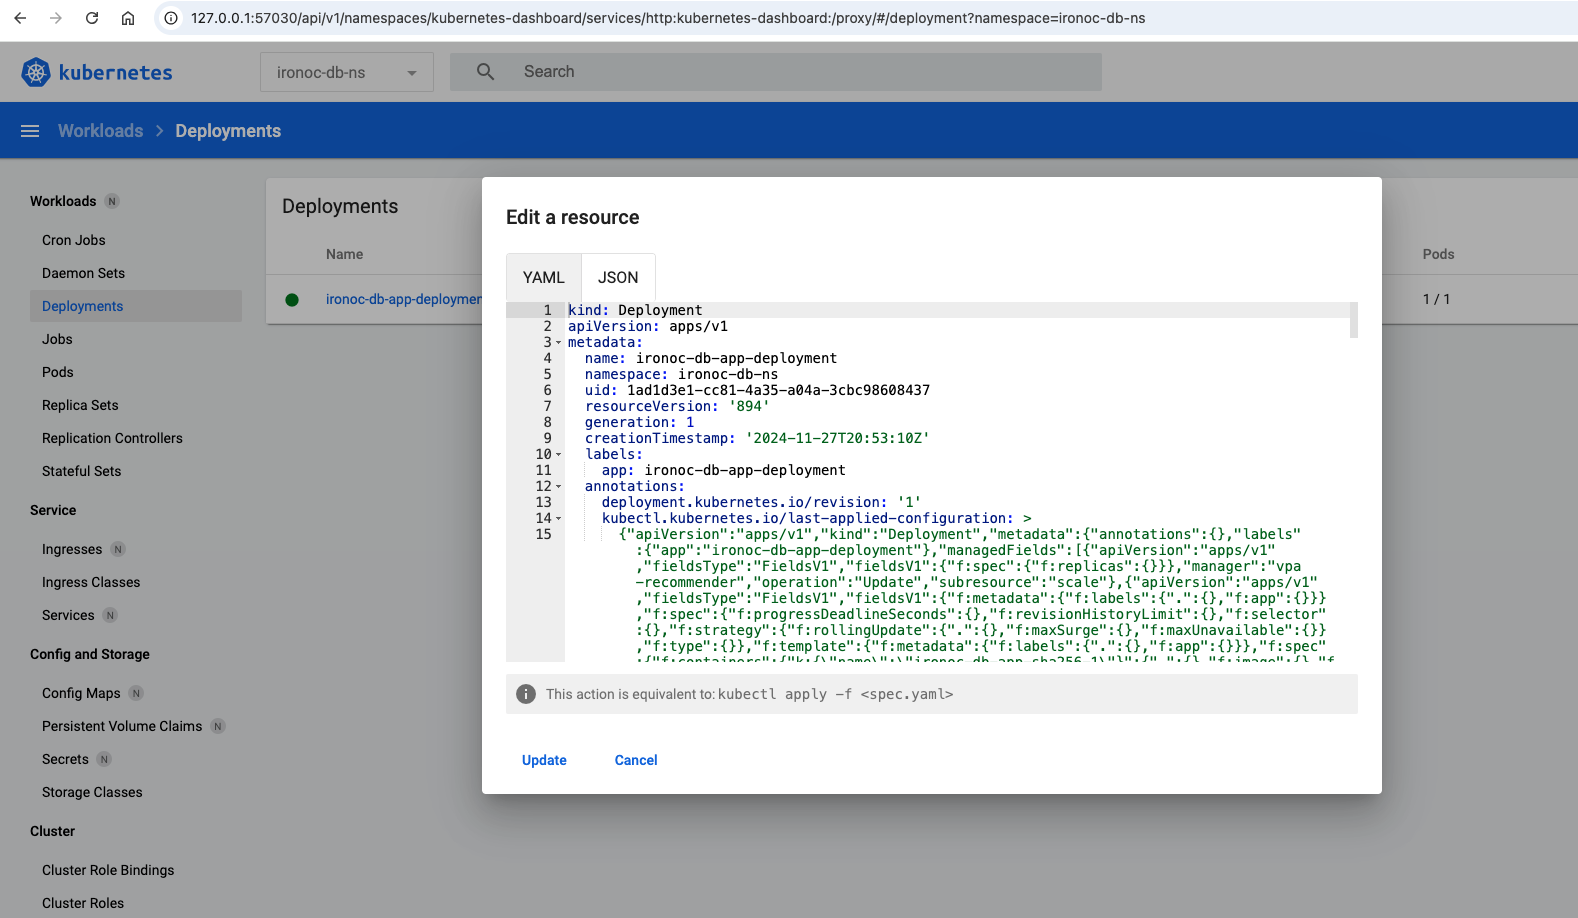
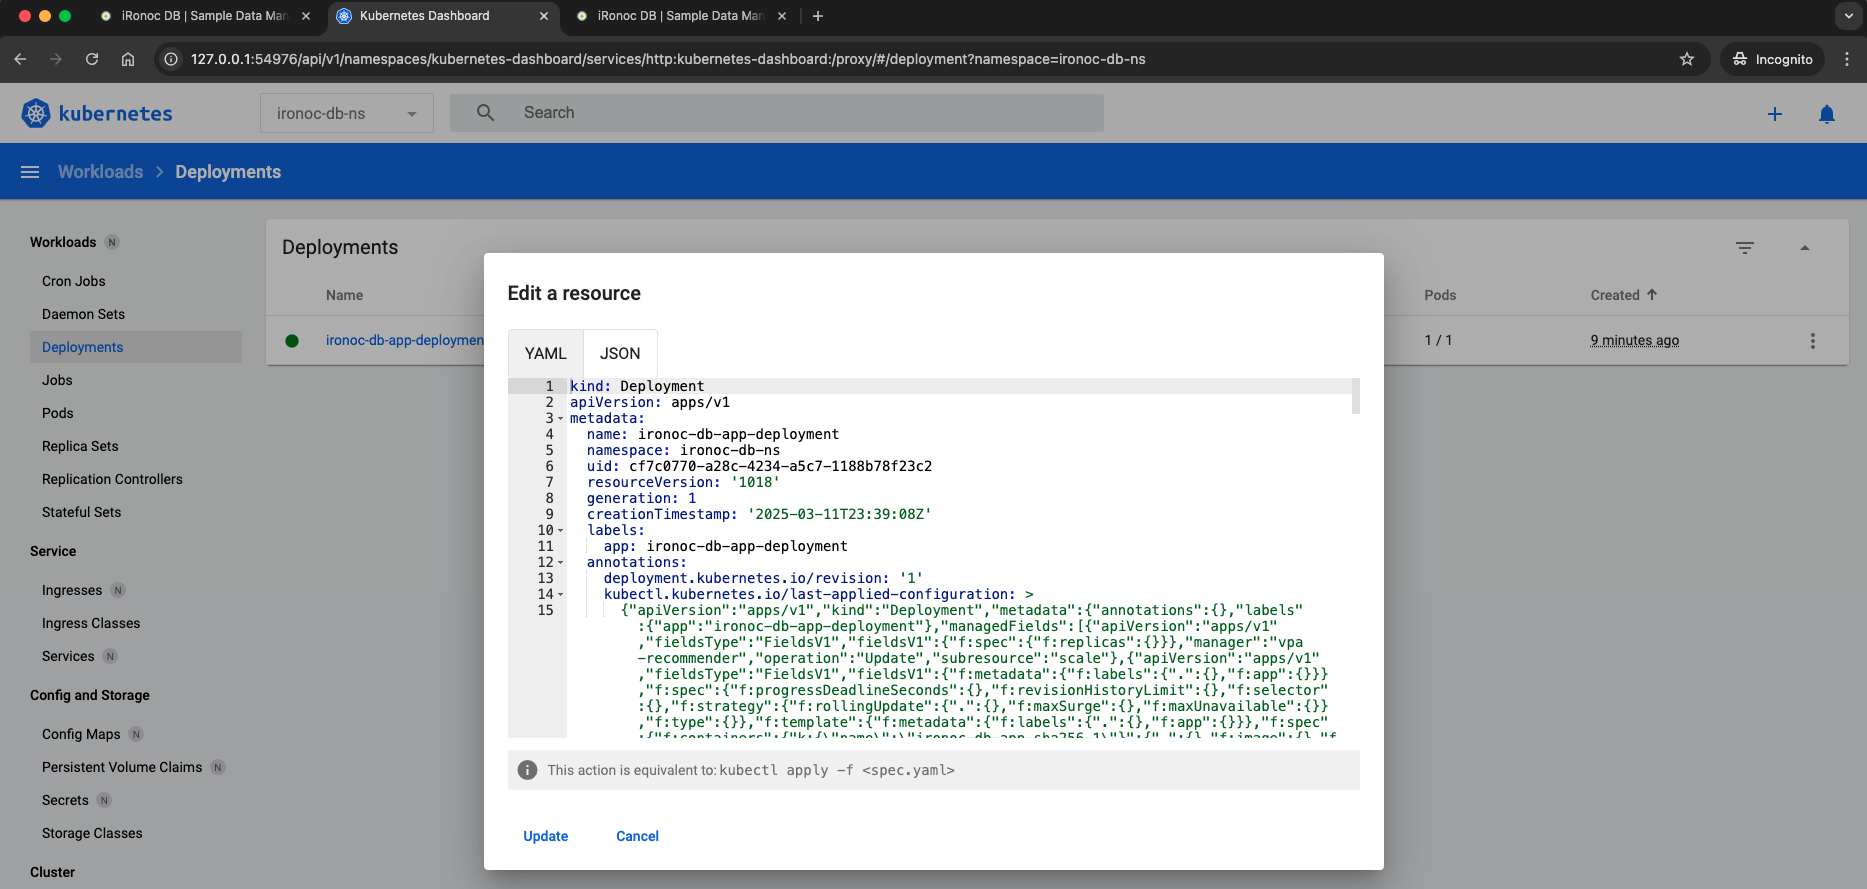
#319 Documentation: Update Screen Shots & Read Me Notes
Regression test

diff --git a/README.md b/README.md
@@ -130,8 +130,8 @@ docker remove test-mysql
 
 
 %   kubectl cluster-info 
-Kubernetes control plane is running at https://127.0.0.1:51600
-CoreDNS is running at https://127.0.0.1:51600/api/v1/namespaces/kube-system/services/kube-dns:dns/proxy
+Kubernetes control plane is running at https://127.0.0.1:54912
+CoreDNS is running at https://127.0.0.1:54912/api/v1/namespaces/kube-system/services/kube-dns:dns/proxy
 
 To further debug and diagnose cluster problems, use 'kubectl cluster-info dump'.
 
@@ -147,7 +147,7 @@ To further debug and diagnose cluster problems, use 'kubectl cluster-info dump'.
 🤔  Verifying dashboard health ...
 🚀  Launching proxy ...
 🤔  Verifying proxy health ...
-🎉  Opening http://127.0.0.1:65357/api/v1/namespaces/kubernetes-dashboard/services/http:kubernetes-dashboard:/proxy/ in your default browser...
+🎉  Opening http://127.0.0.1:54976/api/v1/namespaces/kubernetes-dashboard/services/http:kubernetes-dashboard:/proxy/ in your default browser...
 ```
 - Then change namespace in browser after creation of 'ironoc-db' namespace.
 
@@ -217,7 +217,7 @@ horizontalpodautoscaler.autoscaling/ironoc-db-app-deployment-hpa-kbij created
 
 %   kubectl get pods --namespace=ironoc-db-ns
 NAME                                        READY   STATUS    RESTARTS   AGE
-ironoc-db-app-deployment-6c566784bc-xvt6c   1/1     Running   0          10s
+ironoc-db-app-deployment-d5c59b4c5-rzmhz   1/1     Running   0          10s
 
 
 %   kubectl get deployment --namespace=ironoc-db-ns
@@ -233,21 +233,21 @@ service/ironoc-db-app-deployment exposed
 
 %   kubectl get services --namespace=ironoc-db-ns
 NAME                       TYPE       CLUSTER-IP    EXTERNAL-IP   PORT(S)          AGE
-ironoc-db-app-deployment   NodePort   10.98.99.20   <none>        8080:31200/TCP   7s
+ironoc-db-app-deployment   NodePort   10.96.135.232   <none>        8080:31797/TCP   8s
 
 
 %   minikube service ironoc-db-app-deployment --url --namespace=ironoc-db-ns
-http://127.0.0.1:52851
+http://127.0.0.1:55519
 ❗  Because you are using a Docker driver on darwin, the terminal needs to be open to run it.
 ```
 - Open a new terminal tab & follow the logs
 ```shell
 %   kubectl get pods --namespace=ironoc-db-ns
 NAME                                        READY   STATUS    RESTARTS   AGE
-ironoc-db-app-deployment-6c566784bc-xvt6c   1/1     Running   0          2m54s
+ironoc-db-app-deployment-d5c59b4c5-rzmhz   1/1     Running   0          2m54s
 
 
-%   kubectl logs ironoc-db-app-deployment-6c566784bc-xvt6c -f --namespace=ironoc-db-ns
+%   kubectl logs ironoc-db-app-deployment-d5c59b4c5-rzmhz -f --namespace=ironoc-db-ns
 Starting a Gradle Daemon, 1 incompatible and 1 stopped Daemons could not be reused, use --status for details
 > Task :compileJava UP-TO-DATE
 > Task :processResources UP-TO-DATE
